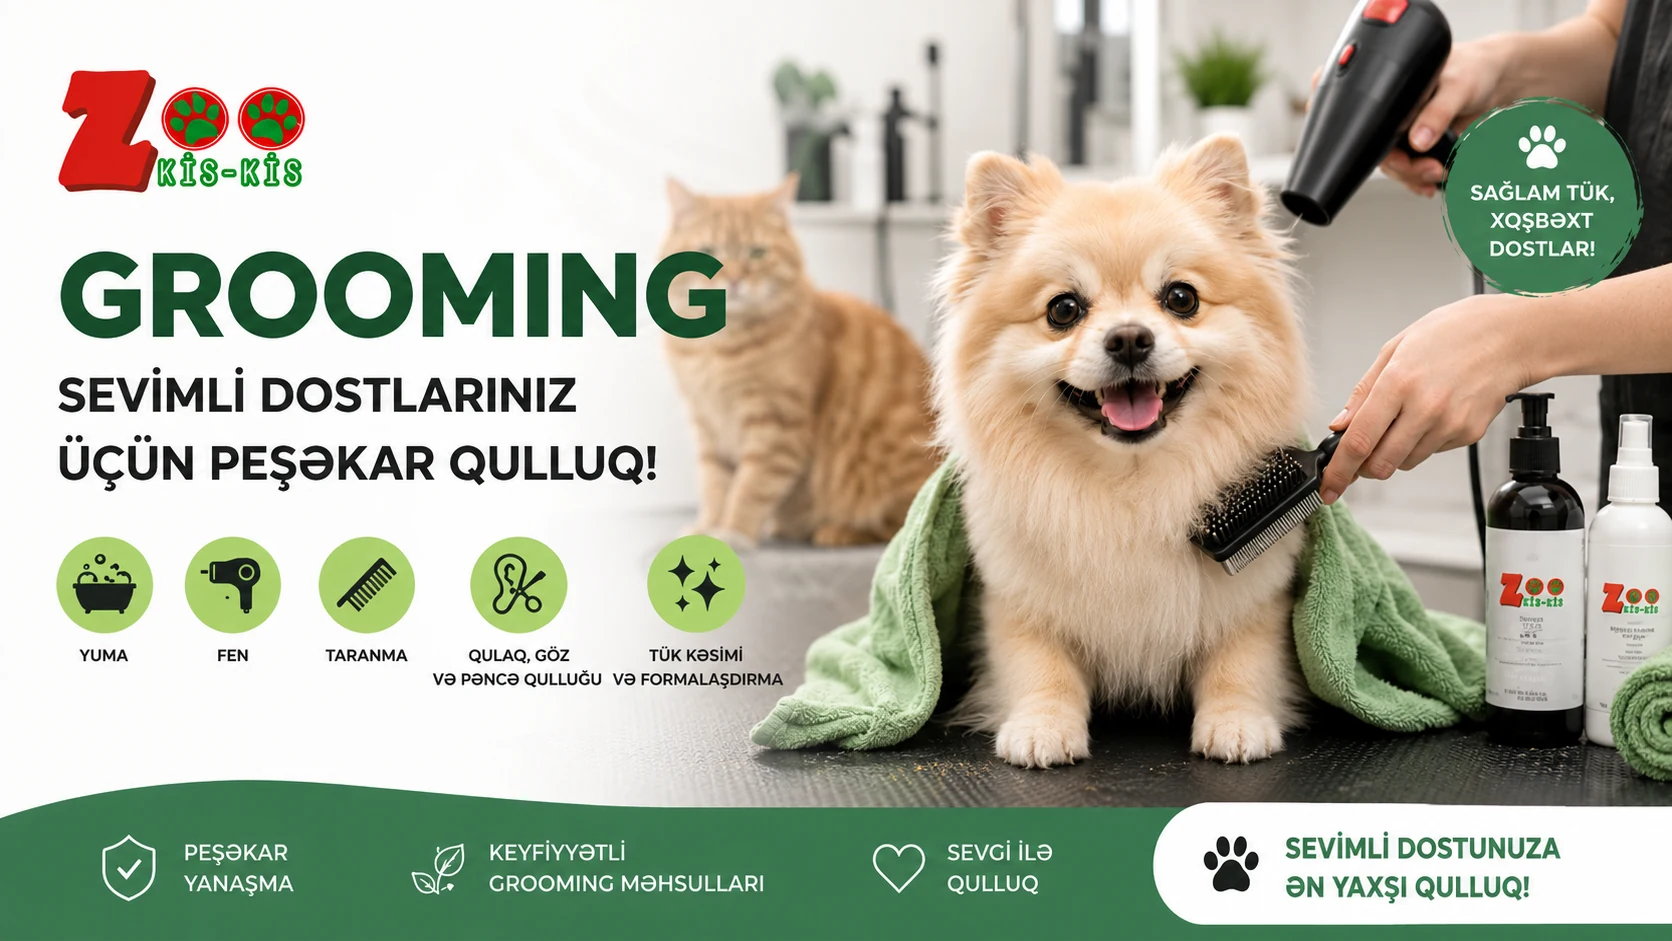
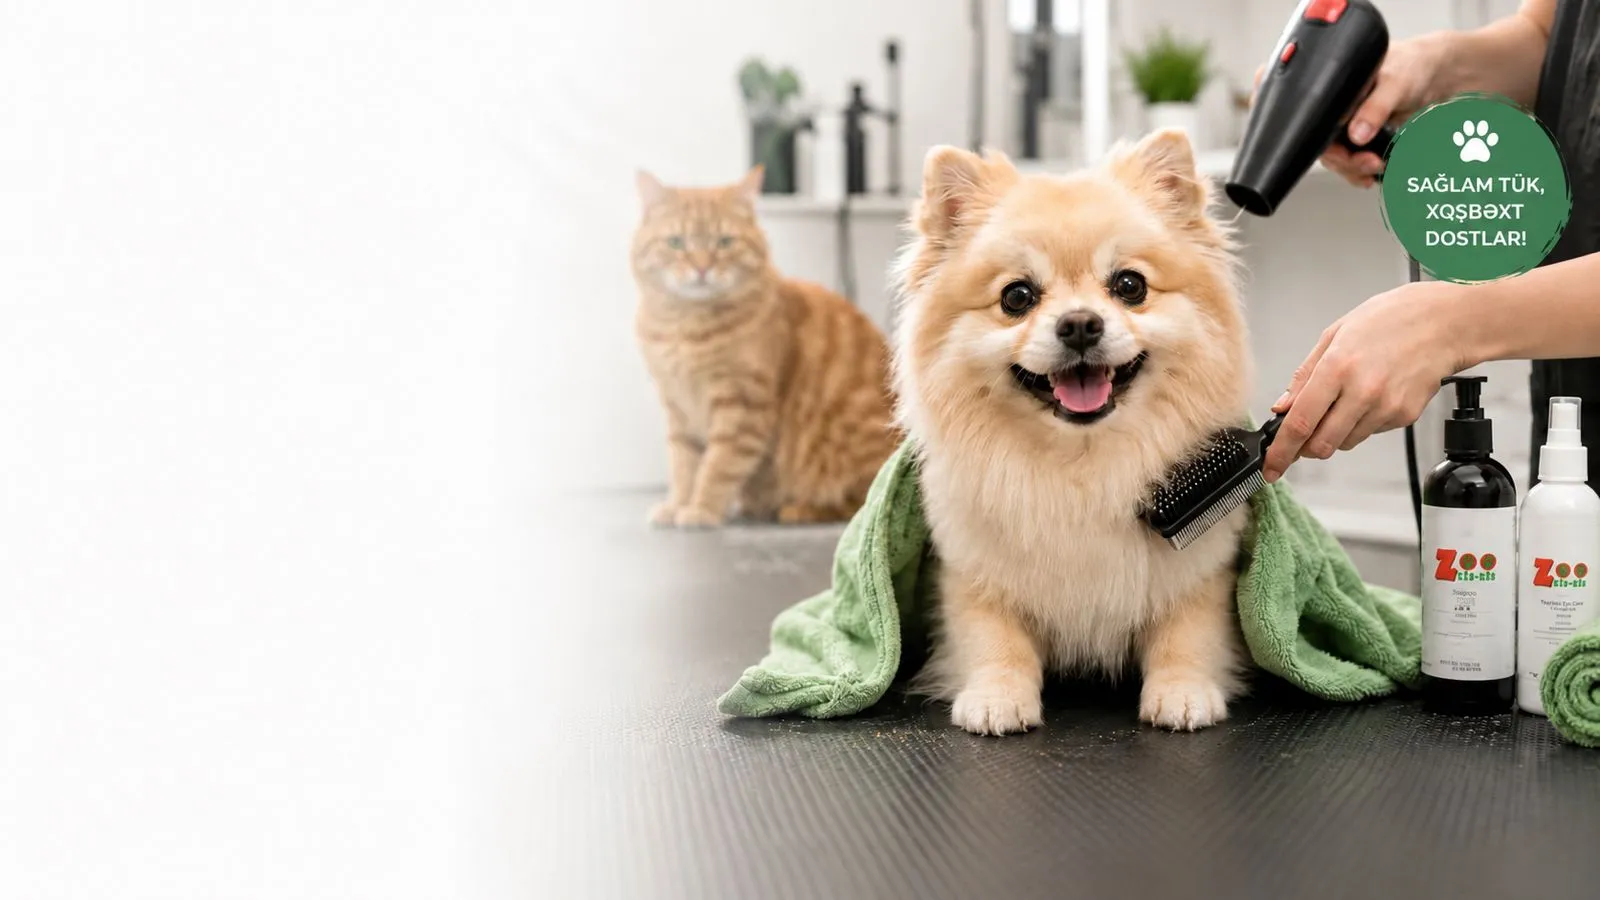
deyisdi

diff --git a/components/HomePageClient.tsx b/components/HomePageClient.tsx
@@ -269,7 +269,7 @@ export function HomePageClient() {
     {
       id: 'grooming',
       image: '/banners/zoo-kis-kis-grooming.webp',
-      mobileImage: '/banners/zoo-kis-kis-grooming-mobile-generated.png',
+      mobileImage: '/banners/zoo-kis-kis-grooming-mobile-generated.webp',
       alt: 'Zoo Kis-Kis grooming banneri',
       variant: 'grooming' as const,
       copy: copy.grooming